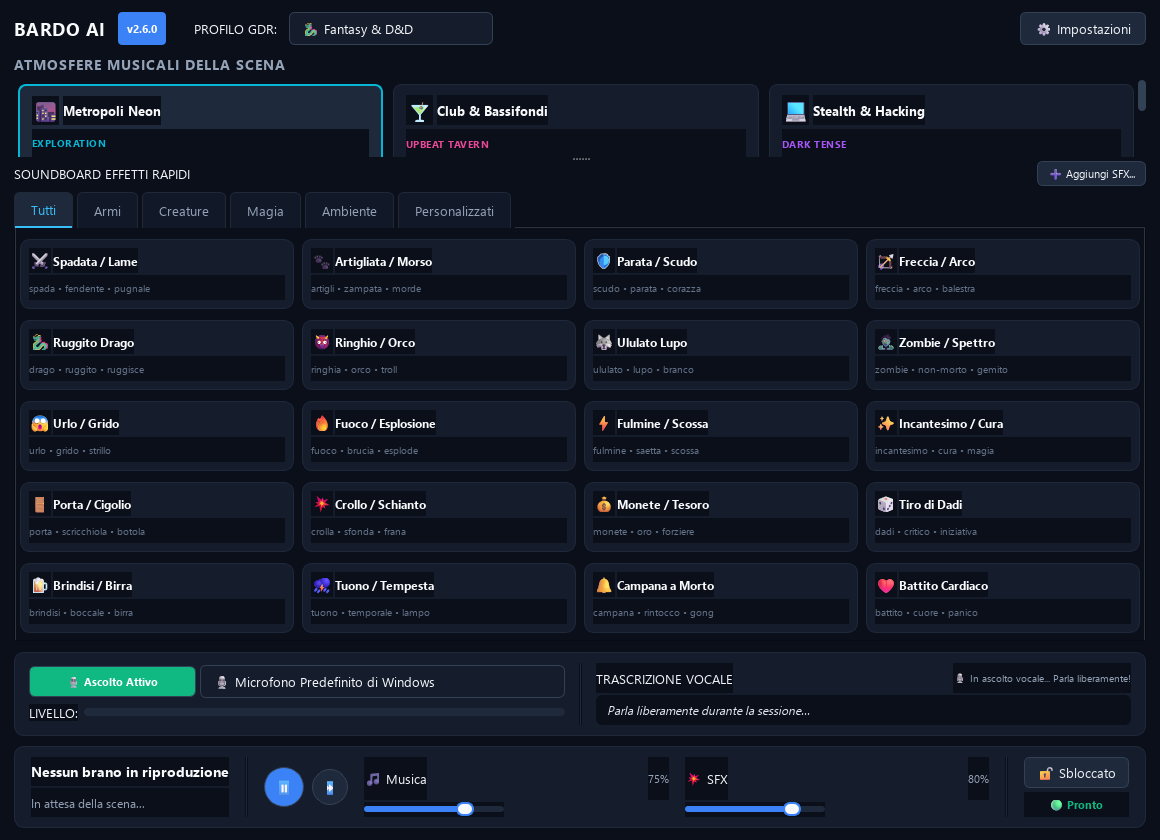
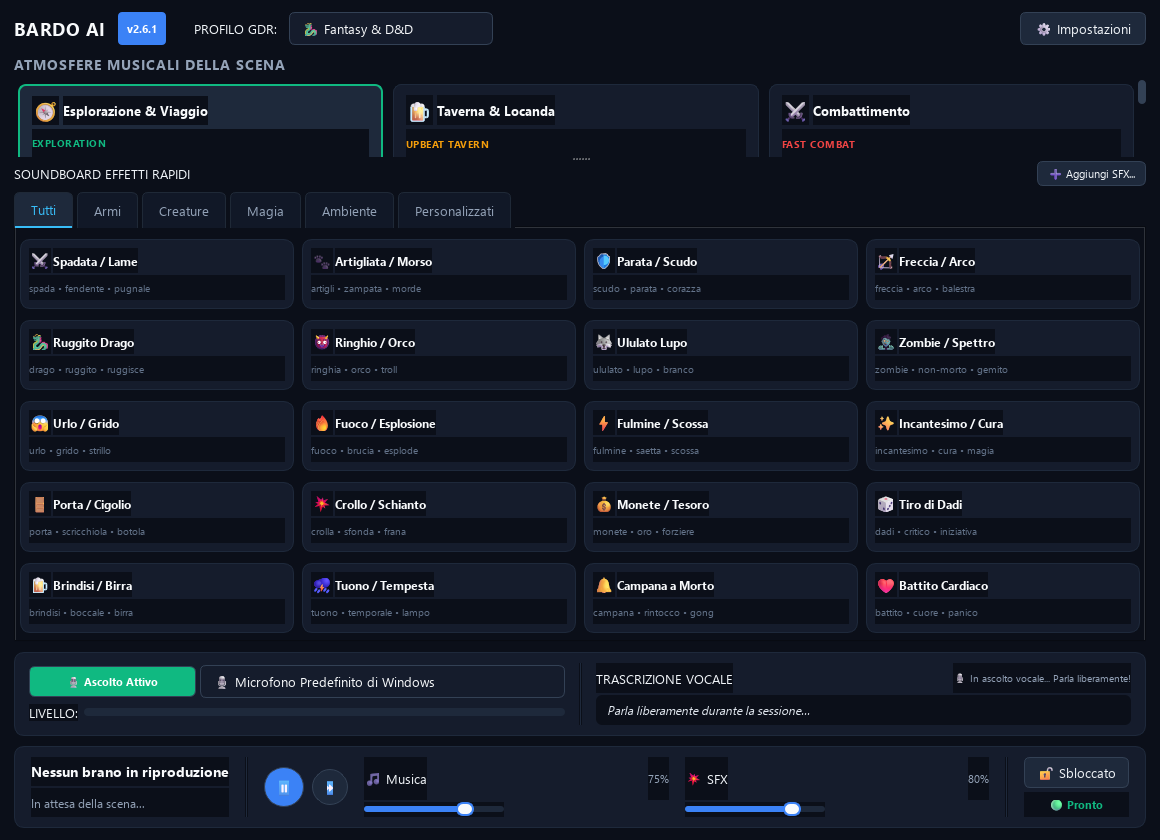
fix(ui): sincronizzazione all'avvio tra selettore profilo e griglia atmosfere (v2.6.1)

Changed region(s): [[0.031, 0.0929, 0.1862, 0.1857], [0.3414, 0.1238, 0.4966, 0.1857], [0.6517, 0.1238, 0.8069, 0.1857]]

diff --git a/tests/test_ui_profile_sync.py b/tests/test_ui_profile_sync.py
@@ -1,0 +1,116 @@
+"""
+Test per la sincronizzazione del selettore profilo e della griglia atmosfere in PySide6.
+Autore: Paolo Basta (https://github.com/Il-Basta-Paolo/BardoAI)
+"""
+
+import os
+import sys
+from pathlib import Path
+from typing import Generator
+import pytest
+
+from PySide6.QtWidgets import QApplication
+
+os.environ["QT_QPA_PLATFORM"] = "offscreen"
+os.environ["HF_HUB_DISABLE_SYMLINKS_WARNING"] = "1"
+
+from storage import ConfigManager, get_data_dir
+
+
+@pytest.fixture(scope="module")
+def qapp() -> Generator[QApplication, None, None]:
+    app = QApplication.instance()
+    if app is None:
+        app = QApplication([])
+    yield app
+
+
+@pytest.fixture
+def clean_config():
+    """Garantisce un file di configurazione pulito e ripristinato dopo ogni test."""
+    orig_cfg = ConfigManager.load()
+    yield
+    ConfigManager.save(orig_cfg)
+
+
+def test_startup_profile_fantasy(qapp, clean_config, monkeypatch):
+    """Verifica che all'avvio con profilo fantasy, combobox e griglia siano allineati su Fantasy."""
+    cfg = ConfigManager.load()
+    cfg["active_profile_id"] = "fantasy_dnd"
+    ConfigManager.save(cfg)
+
+    from ui.main_window import MainWindow
+
+    win = MainWindow()
+    try:
+        assert win.combo_profile.currentData() == "fantasy_dnd"
+        assert win.active_profile_id == "fantasy_dnd"
+        cards = list(win.mood_grid._cards.keys())
+        assert "esplorazione" in cards
+        assert "taverna" in cards
+        assert "combattimento" in cards
+        assert "metropoli" not in cards
+    finally:
+        win.close()
+
+
+def test_startup_profile_scifi(qapp, clean_config, monkeypatch):
+    """Verifica che all'avvio con profilo scifi, combobox e griglia siano allineati su Sci-Fi (bug fix)."""
+    cfg = ConfigManager.load()
+    cfg["active_profile_id"] = "scifi_cyberpunk"
+    ConfigManager.save(cfg)
+
+    from ui.main_window import MainWindow
+
+    win = MainWindow()
+    try:
+        assert win.combo_profile.currentData() == "scifi_cyberpunk"
+        assert win.active_profile_id == "scifi_cyberpunk"
+        cards = list(win.mood_grid._cards.keys())
+        assert "metropoli" in cards
+        assert "club" in cards
+        assert "esplorazione" not in cards
+    finally:
+        win.close()
+
+
+def test_combobox_change_updates_mood_grid(qapp, clean_config):
+    """Verifica che la selezione da menu a tendina aggiorni la griglia e la config."""
+    cfg = ConfigManager.load()
+    cfg["active_profile_id"] = "fantasy_dnd"
+    ConfigManager.save(cfg)
+
+    from ui.main_window import MainWindow
+
+    win = MainWindow()
+    try:
+        idx = win.combo_profile.findData("horror_cthulhu")
+        assert idx >= 0
+        win.combo_profile.setCurrentIndex(idx)
+
+        assert win.active_profile_id == "horror_cthulhu"
+        cards = list(win.mood_grid._cards.keys())
+        assert "indagine" in cards
+        assert "terrore" in cards
+
+        # Verifica persistenza
+        reloaded = ConfigManager.load()
+        assert reloaded["active_profile_id"] == "horror_cthulhu"
+    finally:
+        win.close()
+
+
+def test_programmatic_apply_profile_syncs_combo(qapp, clean_config):
+    """Verifica che _apply_profile aggiorni anche il combobox senza ricorsione."""
+    from ui.main_window import MainWindow
+
+    win = MainWindow()
+    try:
+        win._apply_profile("giallo_investigativo")
+        assert win.combo_profile.currentData() == "giallo_investigativo"
+        assert win.active_profile_id == "giallo_investigativo"
+        cards = list(win.mood_grid._cards.keys())
+        assert "scena_crimine" in cards
+        assert "deduzione" in cards
+    finally:
+        win.close()

diff --git a/ui/main_window.py b/ui/main_window.py
@@ -1,7 +1,8 @@
 """
-Finestra Principale di Bardo AI v2.6.0 (MainWindow) in PySide6.
+Finestra Principale di Bardo AI v2.6.1 (MainWindow) in PySide6.
 Collega l'interfaccia grafica modulare con il Director, l'AudioEngine,
 il MusicService, il ContinuousVoiceListener e l'SFXManager.
+Autore: Paolo Basta (https://github.com/Il-Basta-Paolo/BardoAI)
 """
 
 from __future__ import annotations
@@ -57,7 +58,7 @@ class EventBridge(QObject):
 class MainWindow(QMainWindow):
     def __init__(self) -> None:
         super().__init__()
-        self.setWindowTitle("Bardo AI v2.6.0 — Regia Musicale Intelligente & Soundboard GdR")
+        self.setWindowTitle("Bardo AI v2.6.1 — Regia Musicale Intelligente & Soundboard GdR")
         self.resize(1120, 800)
         self.setMinimumSize(960, 680)
 
@@ -145,7 +146,7 @@ class MainWindow(QMainWindow):
 
         lbl_app = QLabel("BARDO AI")
         lbl_app.setObjectName("headerTitle")
-        lbl_v2 = QLabel("v2.6.0")
+        lbl_v2 = QLabel("v2.6.1")
         lbl_v2.setStyleSheet("font-size: 11px; background-color: #3b82f6; color: white; padding: 2px 6px; border-radius: 4px; font-weight: bold;")
         top_bar.addWidget(lbl_app)
         top_bar.addWidget(lbl_v2)
@@ -157,6 +158,12 @@ class MainWindow(QMainWindow):
         profiles = list_available_profiles(self.config)
         for p in profiles:
             self.combo_profile.addItem(f"{p.get('icon', '🎭')} {p.get('name', p['id'])}", p["id"])
+
+        # Sincronizza l'indice iniziale del selettore con il profilo attivo salvato
+        init_idx = self.combo_profile.findData(self.active_profile_id)
+        if init_idx >= 0:
+            self.combo_profile.setCurrentIndex(init_idx)
+
         top_bar.addWidget(self.combo_profile)
         top_bar.addStretch()
 
@@ -354,6 +361,14 @@ class MainWindow(QMainWindow):
         self.active_profile_id = profile_id
         self.config["active_profile_id"] = profile_id
         ConfigManager.save(self.config)
+
+        # Sincronizza il selettore a tendina se non allineato (senza generare rimbalzi di segnali)
+        if hasattr(self, "combo_profile"):
+            idx = self.combo_profile.findData(profile_id)
+            if idx >= 0 and self.combo_profile.currentIndex() != idx:
+                self.combo_profile.blockSignals(True)
+                self.combo_profile.setCurrentIndex(idx)
+                self.combo_profile.blockSignals(False)
 
         self.director.reset()
         profile = self.config["profiles"].get(profile_id, {})

diff --git a/desktop_app.py b/desktop_app.py
@@ -1,5 +1,5 @@
 """
-Bardo AI v2.6.0 — Regia Musicale Intelligente & Soundboard Vocale per Sessioni GdR.
+Bardo AI v2.6.1 — Regia Musicale Intelligente & Soundboard Vocale per Sessioni GdR.
 Entry point desktop PySide6.
 Autore: Paolo Basta (https://github.com/Il-Basta-Paolo/BardoAI)
 """
@@ -10,7 +10,7 @@ import os
 import sys
 
 __author__ = "Paolo Basta"
-__version__ = "2.6.0"
+__version__ = "2.6.1"
 
 # Abilita rendering High DPI per schermi 4K e display moderni su Windows
 os.environ["QT_ENABLE_HIGHDPI_SCALING"] = "1"
@@ -30,7 +30,7 @@ def main() -> None:
 
     app = QApplication(sys.argv)
     app.setApplicationName("Bardo AI")
-    app.setApplicationVersion("2.6.0")
+    app.setApplicationVersion("2.6.1")
     app.setOrganizationName("Paolo Basta")
     app.setOrganizationDomain("github.com/Il-Basta-Paolo/BardoAI")
 

diff --git a/config_defaults.py b/config_defaults.py
@@ -1,5 +1,5 @@
 """
-Configurazioni predefinite per Bardo AI v2.6.0 - Regia Musicale Automatica & Soundboard Vocale per GdR.
+Configurazioni predefinite per Bardo AI v2.6.1 - Regia Musicale Automatica & Soundboard Vocale per GdR.
 Autore: Paolo Basta (https://github.com/Il-Basta-Paolo/BardoAI)
 """
 
@@ -7,7 +7,7 @@ from typing import Dict, Any, List, Optional
 
 __author__ = "Paolo Basta"
 
-APP_VERSION = "2.6.0"
+APP_VERSION = "2.6.1"
 CONFIG_SCHEMA_VERSION = 2
 
 DEFAULT_CONFIG: Dict[str, Any] = {

diff --git a/build_installer.py b/build_installer.py
@@ -1,5 +1,5 @@
 """
-Script di generazione dell'eseguibile e dell'installer distribuibile di Bardo AI v2.6.0:
+Script di generazione dell'eseguibile e dell'installer distribuibile di Bardo AI v2.6.1:
 Autore: Paolo Basta
 1. Verifica/compila `BardoAI.exe` tramite PyInstaller e `BardoAI.spec` (PySide6, PyAV, Zero VLC).
 2. Crea l'archivio payload compresso con `BardoAI.exe`, `sfx/*.wav`, `bardo_icon.ico` e `LEGGIMI.txt`.

diff --git a/installer_gui.py b/installer_gui.py
@@ -23,7 +23,7 @@ import customtkinter as ctk
 
 
 APP_NAME = "Bardo AI"
-APP_VERSION = "2.6.0"
+APP_VERSION = "2.6.1"
 APP_PUBLISHER = "Paolo Basta"
 EXE_NAME = "BardoAI.exe"
 REQUIRED_SPACE_MB = 260

diff --git a/CHANGELOG.md b/CHANGELOG.md
@@ -6,6 +6,17 @@ e questo progetto aderisce al [Semantic Versioning](https://semver.org/lang/it/)
 
 ---
 
+## [2.6.1] — 2026-10-24
+
+### 🐛 Risolto
+- **Disallineamento Profilo / Griglia Atmosfere all'Avvio**: risolta l'anomalia per cui all'avvio dell'applicazione il menu a tendina superiore mostrava "Fantasy & D&D" mentre la griglia delle atmosfere sottostante mostrava quelle di Cyberpunk (o dell'ultimo profilo memorizzato). Ora l'indice del menu a tendina viene sincronizzato immediatamente all'avvio con il profilo salvato in configurazione (`active_profile_id`).
+- **Sincronizzazione Bidirezionale Sicura**: implementato allineamento atomico con blocco preventivo dei segnali (`blockSignals(True/False)`) in `_apply_profile`, prevenendo loop ricorsivi di cambio profilo o mancata emissione di eventi Qt.
+
+### 🌟 Aggiunto
+- **Suite di Test UI Offscreen**: aggiunti nuovi test unitari in `tests/test_ui_profile_sync.py` per collaudare l'avvio, il cambio profilo manuale da combobox e l'allineamento programmatico su macchina vergine offscreen.
+
+---
+
 ## [2.6.0] — 2026-10-24
 
 ### 🌟 Aggiunto
